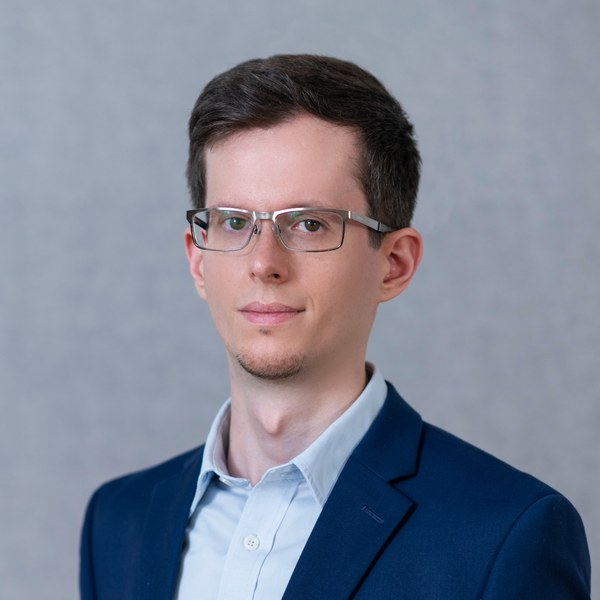
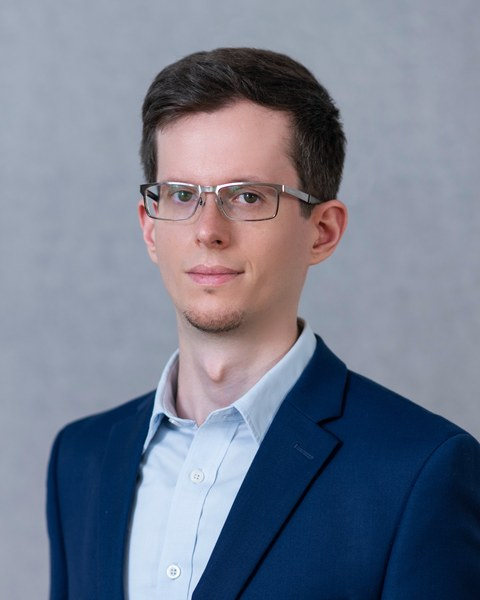
Use rounded-rectangle portrait headshot; bold sidebar titles
Replace the circular avatar crop with a portrait-ratio rounded
rectangle (4:5), re-cropped and centered precisely on the face using
the glasses frame as a symmetry reference. Sidebar job titles are now
bold with the institution inline after a comma instead of on a new
line.

Claude-Session: https://claude.ai/code/session_01PMbx3xo6jxrK2JRxDFZ5eL

diff --git a/assets/css/style.css b/assets/css/style.css
@@ -123,16 +123,16 @@ a:hover { color: var(--accent-dark); text-decoration: underline; }
   padding: 1.6rem;
 }
 .author-avatar {
-  width: 176px;
-  height: 176px;
-  border-radius: 50%;
+  width: 100%;
+  aspect-ratio: 4 / 5;
+  border-radius: var(--radius-md);
   object-fit: cover;
   display: block;
-  border: 4px solid var(--accent-soft);
+  border: 1px solid var(--border);
   box-shadow: var(--shadow-sm);
 }
 .author-name { margin: 1.1rem 0 0.3rem; font-family: var(--font-serif); font-size: 1.35rem; font-weight: 600; line-height: 1.3; color: var(--heading); }
-.author-title { margin: 0 0 1.1rem; color: var(--muted); font-size: 0.95rem; line-height: 1.5; }
+.author-title { margin: 0 0 1.1rem; color: var(--text); font-weight: 700; font-size: 0.95rem; line-height: 1.5; }
 .author-links { list-style: none; margin: 0; padding: 1.1rem 0 0; border-top: 1px solid var(--border); font-size: 0.95rem; }
 .author-links li { margin: 0.5rem 0; }
 .author-links a { color: var(--text); display: flex; align-items: center; gap: 0.65rem; }
@@ -239,7 +239,7 @@ a:hover { color: var(--accent-dark); text-decoration: underline; }
 @media (max-width: 800px) {
   .page-wrap { grid-template-columns: 1fr; gap: 2rem; padding-top: 2rem; }
   .author-card { text-align: center; }
-  .author-avatar { margin: 0 auto; width: 150px; height: 150px; }
+  .author-avatar { margin: 0 auto; max-width: 200px; }
   .author-links { display: inline-block; text-align: left; }
   .header-inner { justify-content: center; text-align: center; }
   .site-brand { align-items: center; }

diff --git a/_includes/sidebar.html b/_includes/sidebar.html
@@ -1,8 +1,8 @@
 <div class="author-card">
-  <img class="author-avatar" src="{{ site.author.headshot | relative_url }}" alt="{{ site.author.name }}" width="200" height="200">
+  <img class="author-avatar" src="{{ site.author.headshot | relative_url }}" alt="{{ site.author.name }}" width="480" height="600">
   <h2 class="author-name">{{ site.author.name }}</h2>
-  <p class="author-title">{{ site.author.title1 }}<br>{{ site.author.title2 }}</p>
-  <p class="author-title">{{ site.author.title3 }}<br>{{ site.author.title4 }}</p>
+  <p class="author-title">{{ site.author.title1 }}, {{ site.author.title2 }}</p>
+  <p class="author-title">{{ site.author.title3 }}, {{ site.author.title4 }}</p>
   <ul class="author-links">
     {% for link in site.author.links %}
     <li><a href="{{ link.url }}" title="{{ link.label }}"><i class="{{ link.icon }}" aria-hidden="true"></i><span>{{ link.label }}</span></a></li>